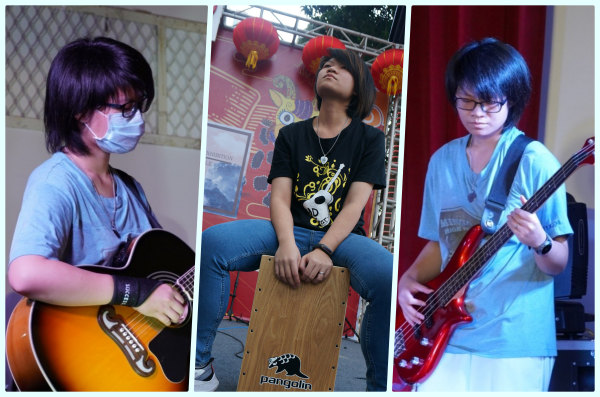
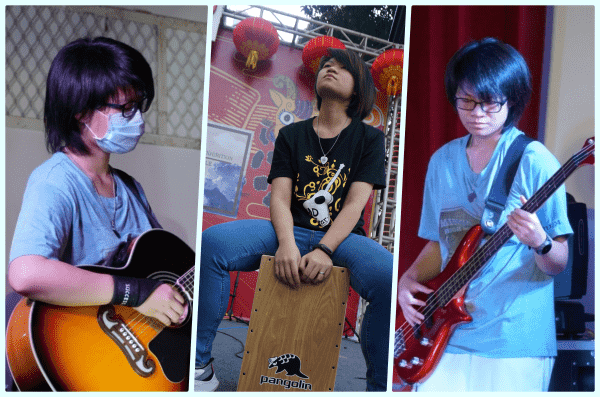
last

diff --git a/before.html b/before.html
@@ -11,6 +11,9 @@
         <link rel="preconnect" href="https://fonts.googleapis.com"> 
         <link rel="preconnect" href="https://fonts.gstatic.com" crossorigin> 
         <link href="https://fonts.googleapis.com/css2?family=Noto+Sans+TC:wght@300;700&display=swap" rel="stylesheet">
+        <script src="https://ajax.googleapis.com/ajax/libs/jquery/3.3.1/jquery.min.js"></script>
+        <i class="fa-solid fa-angles-up"></i>
+        <script src="https://kit.fontawesome.com/6bd1ed9390.js" crossorigin="anonymous"></script>
     </head>
     <body>
       <div class="container-fluid">
@@ -48,7 +51,27 @@
                 <img src="IMG_7592.jpg" class="img-fluid"  alt="我的照片" style="display:block; margin:auto;"/>
                 <p class="special">在團隊頻道中我發表的第一首詞曲創作歌曲叫《以夢為名的光芒》，內容寫的是在成長的路上我們就像在黑暗中摸索，而身邊的朋友老師家人就像一道道的光照入黑暗中，但哪一道光芒才能真正但我走出黑暗，而其中一句歌詞-「迷戀舞台此生離不開，請原諒我叛逆的期待」也是我對於生活的吶喊，希望有一天我能不負期望，成為一個令父母驕傲的孩子。</p>
             </section>
-              </main>
+            </main>
+          <script type="text/javascript">
+                $(function() {
+                $('#gotop').click(function(){
+                $('html,body').animate({ scrollTop: 0 }, 'slow'); 
+                return false;
+    });
+    
+
+                $(window).scroll(function() {
+                if ( $(this).scrollTop() > 400){
+                $('#gotop').fadeIn();
+                } else {
+                $('#gotop').fadeOut();
+        }
+    });
+});
+</script>
+         <a href="https://www.blogger.com/blogger.g?blogID=2031514508322140995#" id="gotop" >
+               <i class="fa-solid fa-angles-up fa-3x"></i>
+              </a>
           <script src="https://cdn.jsdelivr.net/npm/bootstrap@5.1.3/dist/js/bootstrap.bundle.min.js" integrity="sha384-ka7Sk0Gln4gmtz2MlQnikT1wXgYsOg+OMhuP+IlRH9sENBO0LRn5q+8nbTov4+1p" crossorigin="anonymous"></script>
         </div>
     </body>

diff --git a/index.html b/index.html
@@ -32,7 +32,7 @@
         </div>
     </body>
     <main>
-              <img src="collage2.png" class="img-fluid" alt="我的照片" style="display:block; margin:auto;"/>
+              <img src="collage2.jpg" class="img-fluid" alt="我的照片" style="display:block; margin:auto;"/>
           </main>
 </html>
           
